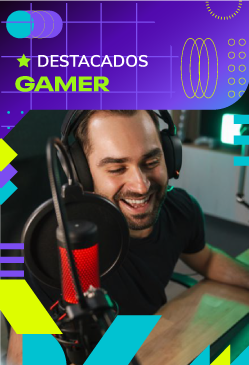
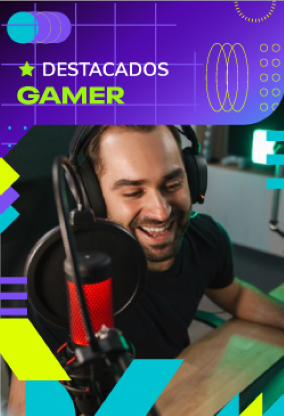
cambios para adaptacion de bootstrap

diff --git a/src/styles/style.css b/src/styles/style.css
@@ -167,22 +167,22 @@ header nav ul li a:hover {
 
 .item-notebook-img {
     display: flex;
-    width: 249px;
-    height: 365px;
+    width: 284px;
+    height: 415px;
     background-image: url(../../public/images/notebooks.png);
 }
 
 .item-pccompleta-img {
     display: flex;
-    width: 249px;
-    height: 365px;
+    width: 284px;
+    height: 415px;
     background-image: url(../../public/images/pccompletas.png);
 }
 
 .item-gamer-img {
     display: flex;
-    width: 249px;
-    height: 365px;
+    width: 284px;
+    height: 415px;
     background-image: url(../../public/images/gamer.png);
 }
 
@@ -214,7 +214,6 @@ header nav ul li a:hover {
 
 .container-notebooks-index {
     display: flex;
-    height: 365px;
     margin: 20px 50px;
     background-color: #f2f2f2;
 }
